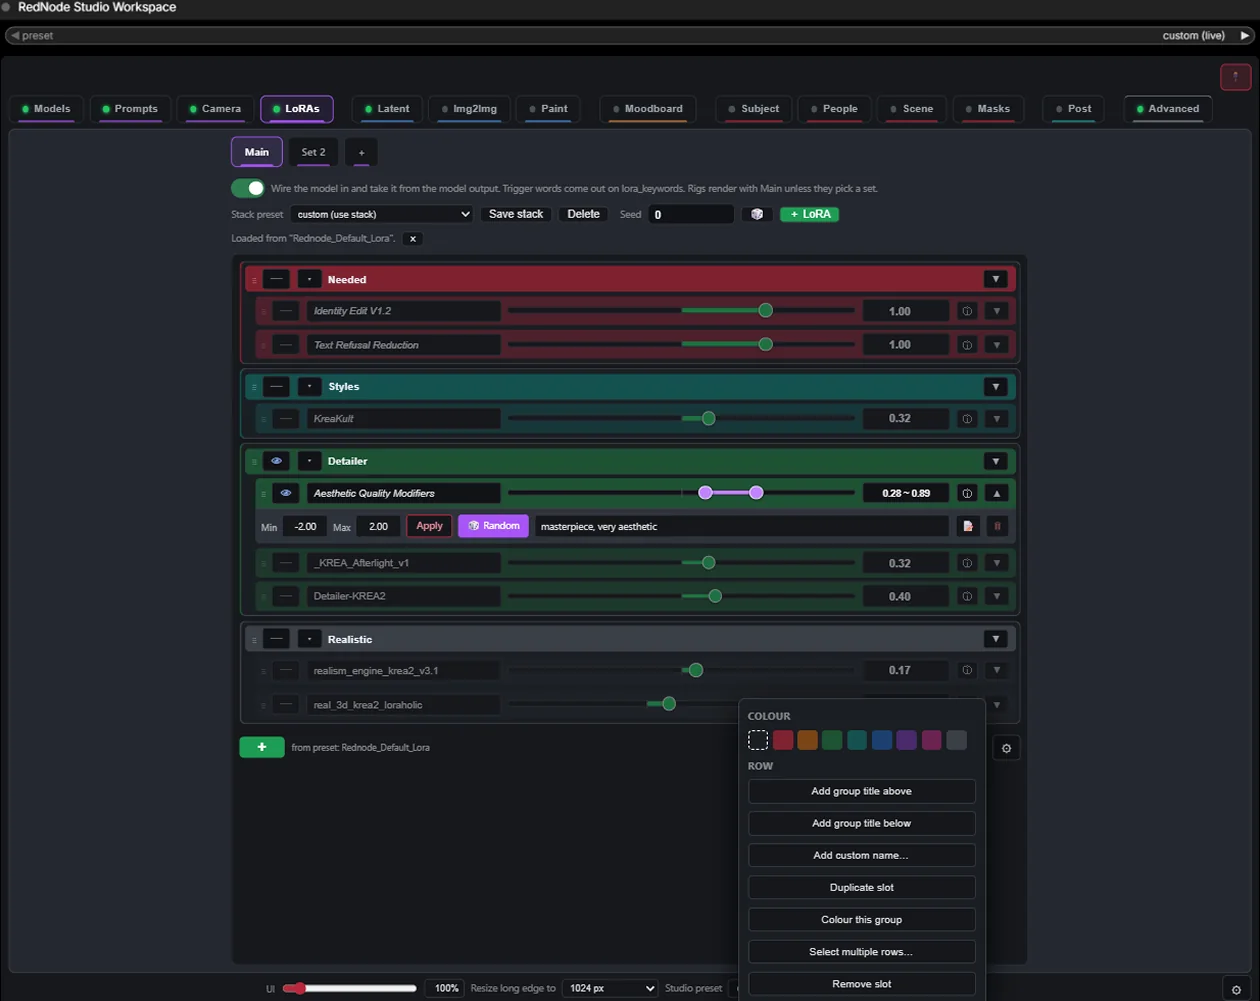
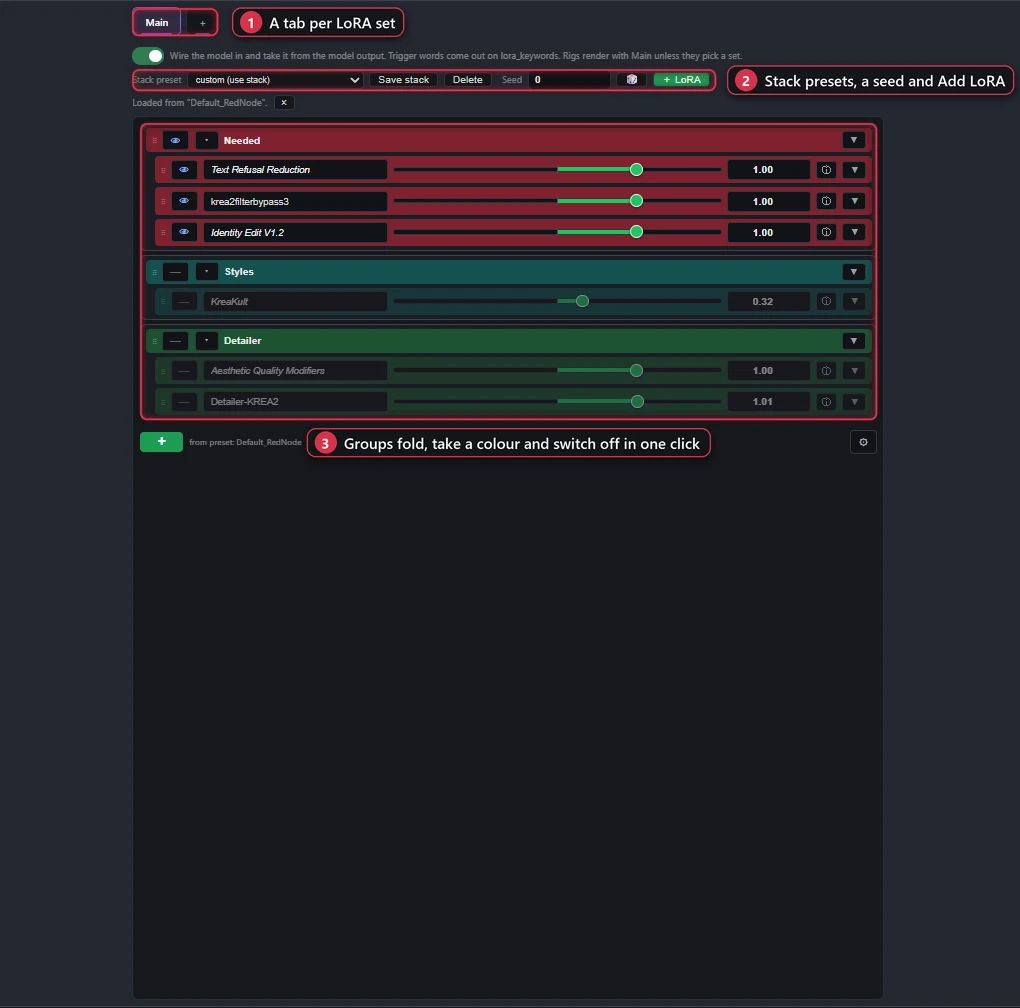
README: the 1.4.2 panel in tagged screenshots
Ten screenshots replaced and five added (the Overview, the Latent and Img2Img
passes, Auto prompt, the Detailer's Advanced view), each with numbered tags
naming what the areas do. The text picks up what 1.4.2 added: Workspace presets
and the right-click on the Overview, Blank canvas and Clear canvas on Paint,
and the Detailer's Simple view and pass names.

diff --git a/README.md b/README.md
@@ -95,18 +95,22 @@ the full screen button and the same panel takes the whole window. The socket tuc
 row above the tabs, parks unwired sockets as dots along the node's bottom edge, so a node with
 forty sockets is no taller than its panel.
 
-**Overview.** The run as it is set up, one box per stage in the order it happens: what feeds the
+![The Overview: the Workspace preset card, what feeds the render, the run in order, and what the run needs](images/overview.webp)
+
+**Overview.** Workspace presets sit at the top: save the whole panel under a name and load it
+back, with Current standing for the panel as it is now. Under that, the run as it is set up, one box per stage in the order it happens: what feeds the
 render (the rig, the prompts, the camera, LoRAs, the Moodboard, the identity galleries, Paint, the
 auto prompt), then the run itself (the canvas or source, Re-angle, Swap, the encode, every pass,
 the decode, the Detailer, Post FX, Save). Green is on, grey is off, amber is on but stood aside
-with the reason on hover, red wants fixing. A click on a box opens the page that decides it, and a
+with the reason on hover, red wants fixing. A click on a box opens the page that decides it, a
+right-click turns that stage on or off with the same switch its own page has, and a
 Needs attention list under the map collects every reason a stage will not run, each line a link.
 Under that, Check installs says which node packs, caption engines and model files these settings
 actually call for, which of them are already here, and where to get the rest. It reads what
 ComfyUI has loaded and the file lists it already hands the panel. It downloads and installs
 nothing: ComfyUI Manager does the installing, where you can see what it is doing.
 
-![The Models tab: two rigs, the sampler numbers, the built-in sampler chosen](images/workspace-models.webp)
+![The Models tab: the rigs, the files one loads, its sampling numbers, and the seed](images/workspace-models.webp)
 
 **Models.** A rig is a model with its CLIP and VAE, its sampler numbers, its detailer steps, a
 second sampler pair for image to image runs, and which LoRA set it carries. Keep several and switch
@@ -171,14 +175,16 @@ Wildcards and `@keyword` macros resolve on the run's seed.
 two studios: the one behind the prompt, whose camera writes the paragraph and drives the camera
 LoRAs, and a separate one for the Img2Img tab's re-angle.
 
-![The LoRAs tab: Main and a named set, grouped slots, a random range, the row menu](images/lora-stack.webp)
+![The LoRAs tab: a tab per set, stack presets, and grouped slots that fold and switch off together](images/lora-stack.webp)
 
 **LoRAs.** The main stack, plus named sets on their own sub-tabs. Rows drag by their grip, switch
 off by their eye, and group under titles; a strength can be a random range with the roll shown
 after the run. A rig picks its set by name, and so can a Detailer pass or a paint pass. The Paint
 tab has a stack of its own.
 
-![The Latent tab: the canvas, and two refine passes with a denoise and a scale each](images/latent.webp)
+![The Latent tab's canvas: aspect presets, the exact size, and what it costs in VRAM](images/latent.webp)
+
+![The Latent tab's passes: six passes, each with its own denoise and scale, and the ramps](images/latent-passes.webp)
 
 **Latent.** The canvas size, with aspect presets, a random size, and an auto latent that follows
 the camera's frame at a pixel budget. Refine passes run on the blank canvas: pass 1 generates, and
@@ -190,7 +196,11 @@ rigs keeping both models loaded. Continue the noise between passes makes the pas
 one schedule instead, each carrying the last one's leftover noise on with none added, which is
 how a Wan-style pair is meant to relay. The Img2Img tab's passes have the same sections.
 
-![The Img2Img tab: source, pass, RE-ANGLE, SWAP and the auto prompt](images/img2img.webp)
+![The Img2Img tab's Source page: the gallery and the picture in use](images/img2img.webp)
+
+![The Img2Img passes: a denoise, a scale and a rig per pass](images/img2img-passes.webp)
+
+![The Auto prompt page: the caption it wrote, six caption engines, and where the words go](images/auto-prompt.webp)
 
 **Img2Img.** A source picture, the pass over it, and two edit stages of one shape. Denoise is a
 full-width bar, and with several passes each one can have its own denoise and its own scale.
@@ -206,7 +216,7 @@ PyTorch attention, so SageAttention does not break them. Its Auto prompt page al
 Subject and Scene galleries whose pictures are only described in words, never sent to the model,
 so a look, a person or a place can steer any rig's prompt.
 
-![The Paint tab in full screen: the mask, the result, and the paint settings](images/paint.webp)
+![The Paint tab: the mask on the picture, the result under it, and the paint settings](images/paint.webp)
 
 **Paint.** Mask a region, set the denoise, queue. It composites back by itself, and it runs on
 whichever renderer you point it at: a rig from the Models tab, the pack's own Paint Render, or an
@@ -217,9 +227,11 @@ size the tab chooses. Every result stays in a history with a full screen viewer 
 one click sends the keeper through the post chain and into the save tree. Blend sits beside
 Feather, the Detailer's dial for how much of the repaint goes back under the mask. Use last result
 can take the picture from before Post FX, so grain and grade never land under the brush, and the
-Subject, Scene and Moodboard reference toggles follow the Model choice's rig.
+Subject, Scene and Moodboard reference toggles follow the Model choice's rig. Blank canvas makes
+a white sheet at the Latent tab's size to paint on from nothing, grey or black on a right-click,
+and Clear canvas takes the picture off as well as the paint, where Clear paint keeps it.
 
-![The Subject tab, with references and the identity dials](images/workspace-subject.webp)
+![The Subject page of Krea 2 Identity: the gallery, with the main subject picked](images/workspace-subject.webp)
 
 **Krea 2 Identity: Subject, Scene, Masks.** One tab with a sub-tab for each, and a light on
 each showing what is in use. Subject is one gallery where you pick the people in order: the
@@ -277,10 +289,17 @@ models.
 
 ## The Detailer
 
-![The Detailer: two sampler passes, a face detailer and an upscale, with a Live Preview watching](images/detailer.webp)
+![The Detailer in its Simple view: named passes in two groups, with the dials most passes need](images/detailer.webp)
+
+![The same passes in the Advanced view: sampling, tiling, the SeedVR2 model and output, and the prompt row](images/detailer-advanced.webp)
 
 RedNode Studio Detailer is the post-render work as a list, read top to bottom, with no wires
-between the passes. Each pass is a card: what it is, which rig runs it, what it aims at, and three
+between the passes. It has two views of the same passes. Simple shows what most passes need: the
+rig, the target, the size, the strength bars and the references. Advanced shows every setting.
+Switching views changes no value, and in Simple a card carries a chip naming any hidden setting
+that is in use. Every pass has a name in front of its kind: left alone it names itself (Tiled
+upscale, Face detailer 2), and a name you type is kept and used in the run log. Each pass is a
+card: what it is, which rig runs it, what it aims at, and three
 boxes under that. Sampling holds steps, CFG, sampler, scheduler and a start and end step window,
 where anything left empty inherits the rig's own numbers. Strength holds Scale and Denoise as bars
 and the Repeat count, and a repeat above one offers a denoise and a scale per round with a Ramp.
@@ -364,7 +383,7 @@ canvas of Get and Set nodes with named channels. The wires that are not there ar
 
 ## The camera stage
 
-![The stage from above: two subjects, the camera, its path, and the sets and camera controls beside it](images/camera-stage.webp)
+![The Camera tab: the stage from above, the camera's height, lens and aim, the subjects and the lights](images/camera-stage.webp)
 
 RedNode Camera Studio is a stage seen from above. Put the subjects on it, drag the walls out to the
 size of the room, then move the camera. Every subject card carries a lock, a duplicate button and a
@@ -414,7 +433,7 @@ Light Slider, also on Civitai. They all go in `models/loras`.
 
 ## The prompt frame
 
-![The frame editor: Style, Subject, Surroundings, Light and colour, the framing dial, and the preview it writes](images/prompt.webp)
+![The Prompts tab: the frame's boxes, the camera chips, Auto sort and Rewrite, and the live preview](images/prompt.webp)
 
 Word order sets the framing. Open a prompt with the person and you get a close shot. Put the room
 first and the camera pulls back, same words. That is most of what "wide" and "close" actually mean
